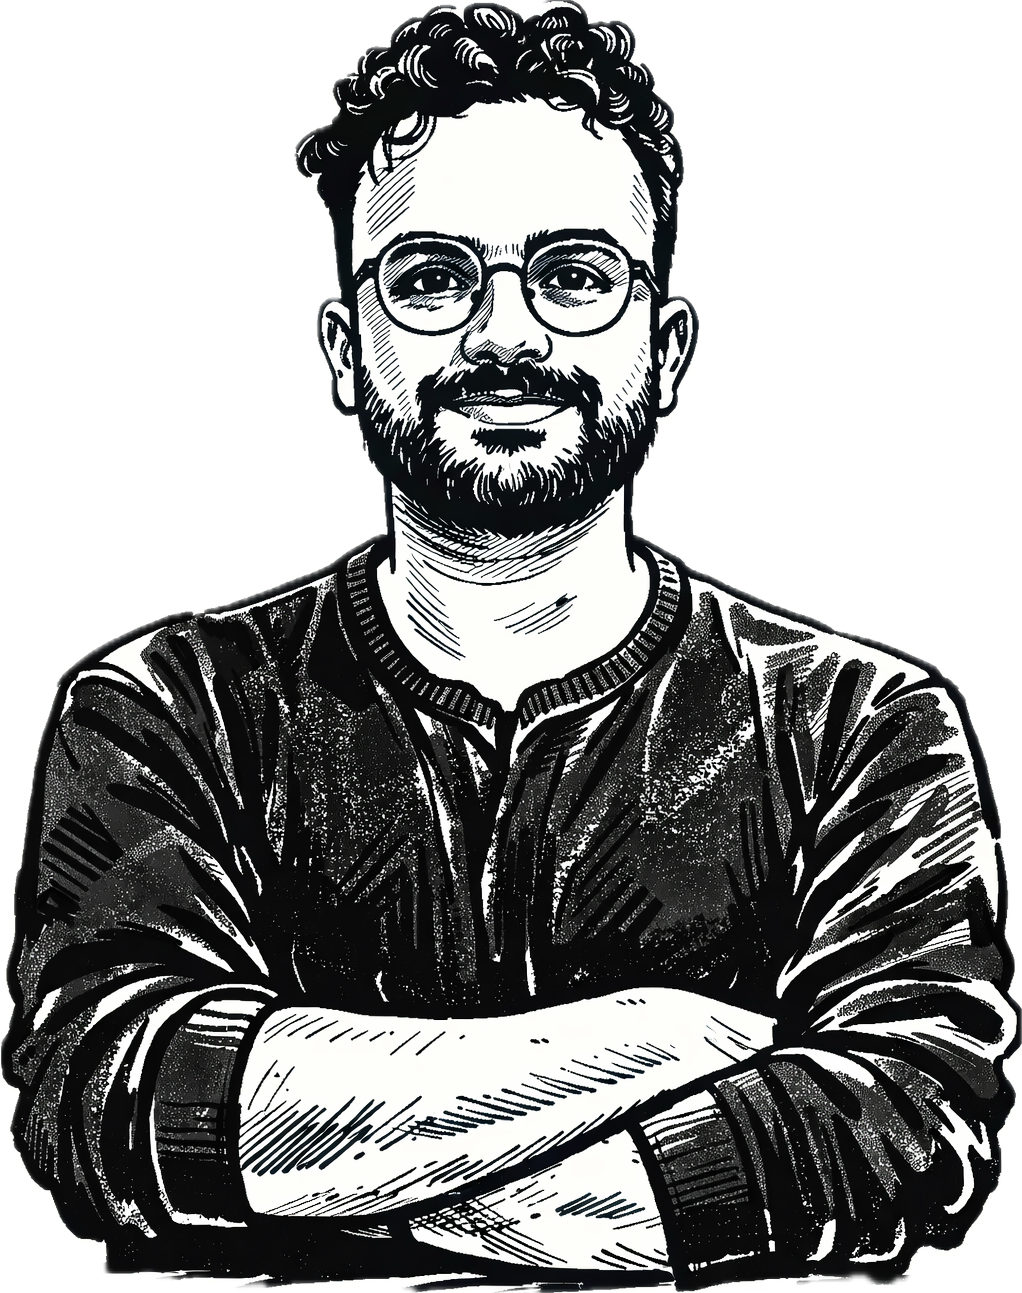
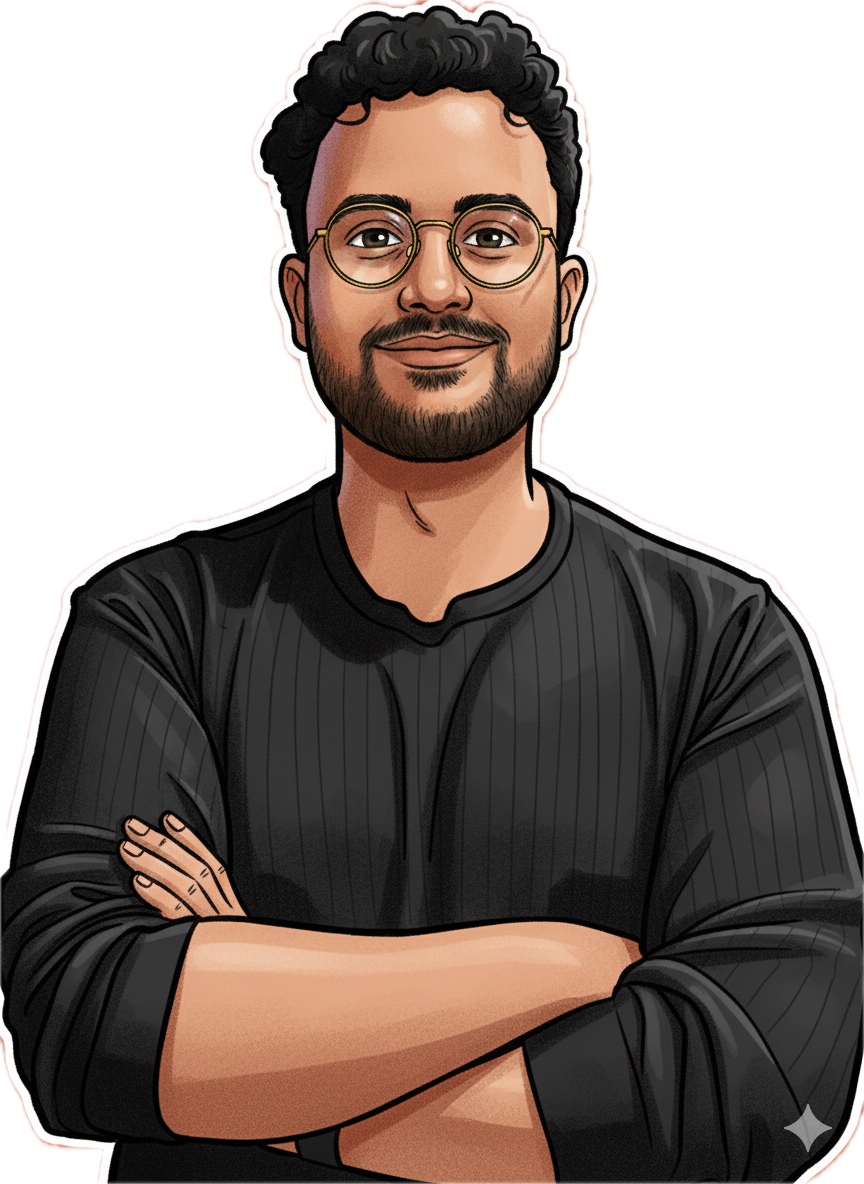
Change profile picture. Update Bio

diff --git a/README.md b/README.md
@@ -1,4 +1,4 @@
-# tuhinm.com
+# [tuhinm.com](https://tuhinm.com)
 
 Personal blog exploring cloud architecture, AI systems, and learning in public.
 
@@ -6,13 +6,22 @@ Personal blog exploring cloud architecture, AI systems, and learning in public.
 
 This is the source code for my personal website at [tuhinm.com](https://tuhinm.com). I write about AWS architectures, system design, career growth, and the intersection of technology and real-world problem solving.
 
-## Tech Stack
+## Tech Stack Used for portfolio development
 
 - **Hugo** - Static site generator
 - **PaperMod** - Clean, minimal theme
 - **Kiro** - AI powered IDE for customization
 - **GitHub Pages** - Hosting and deployment
 - **GitHub Actions** - Automated builds
+
+## :bar_chart: Real-time Insights
+<p align="left">
+<img src="https://github-readme-stats.vercel.app/api?username=YOUR_USERNAME&show_icons=true&theme=radical" alt="GitHub Stats" />
+<img src="https://github-readme-stats.vercel.app/api/top-langs/?username=YOUR_USERNAME&layout=compact&theme=radical" alt="Top Languages" />
+</p>
+
+## :mailbox: Connect with me
+[![LinkedIn](https://img.shields.io/badge/linkedin-%230077B5.svg?style=for-the-badge&logo=linkedin&logoColor=white)](https://linkedin.com/in/t92)
 
 ## License
 
